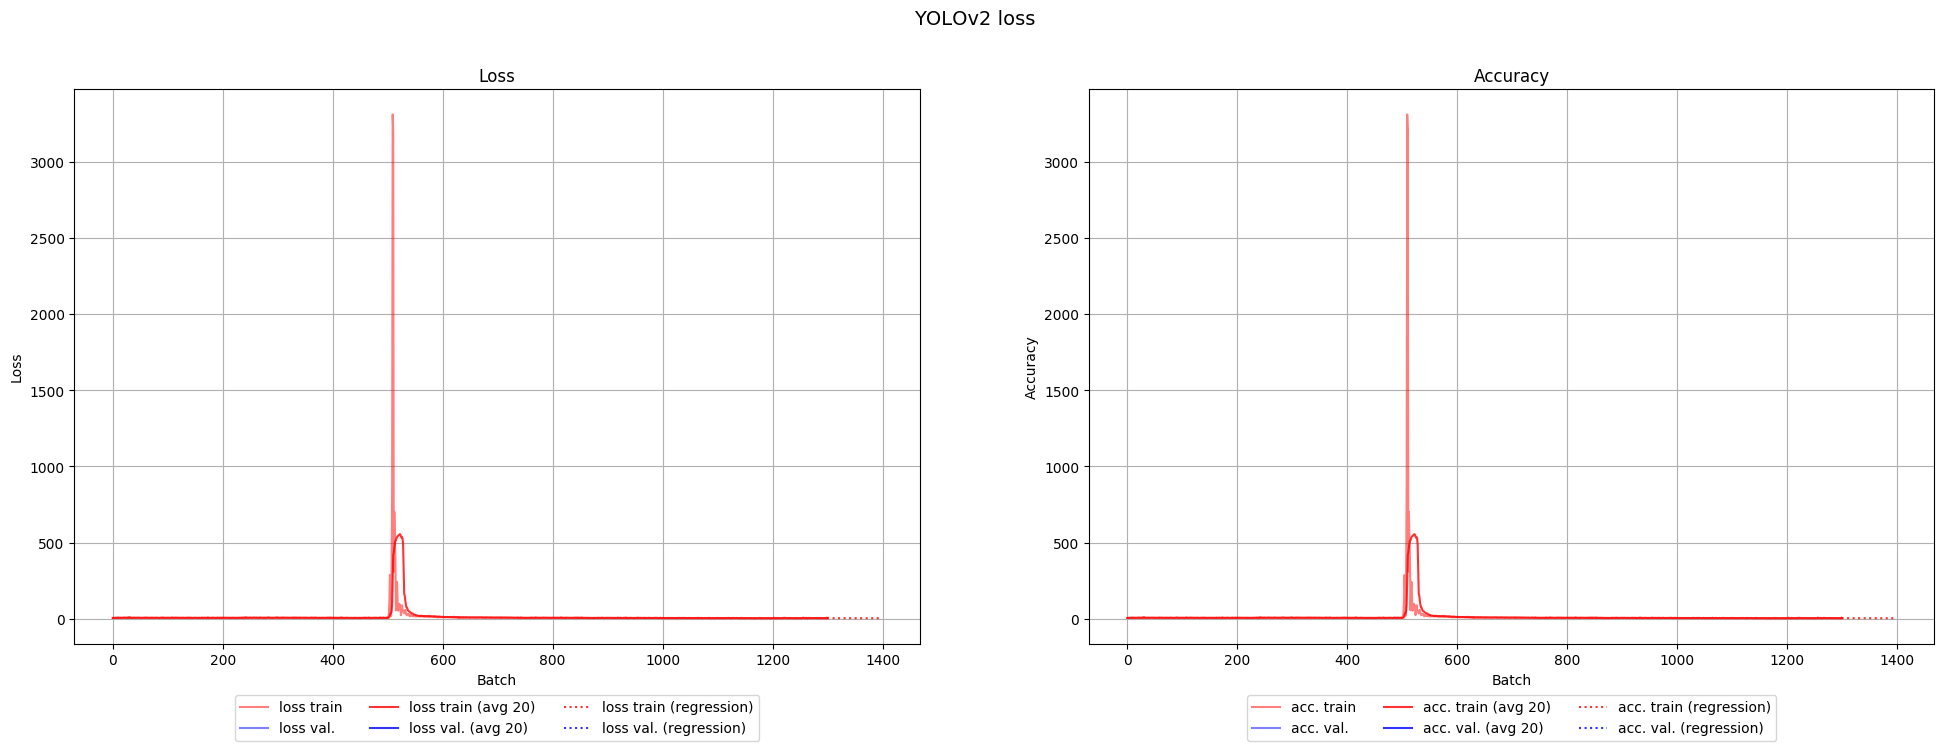
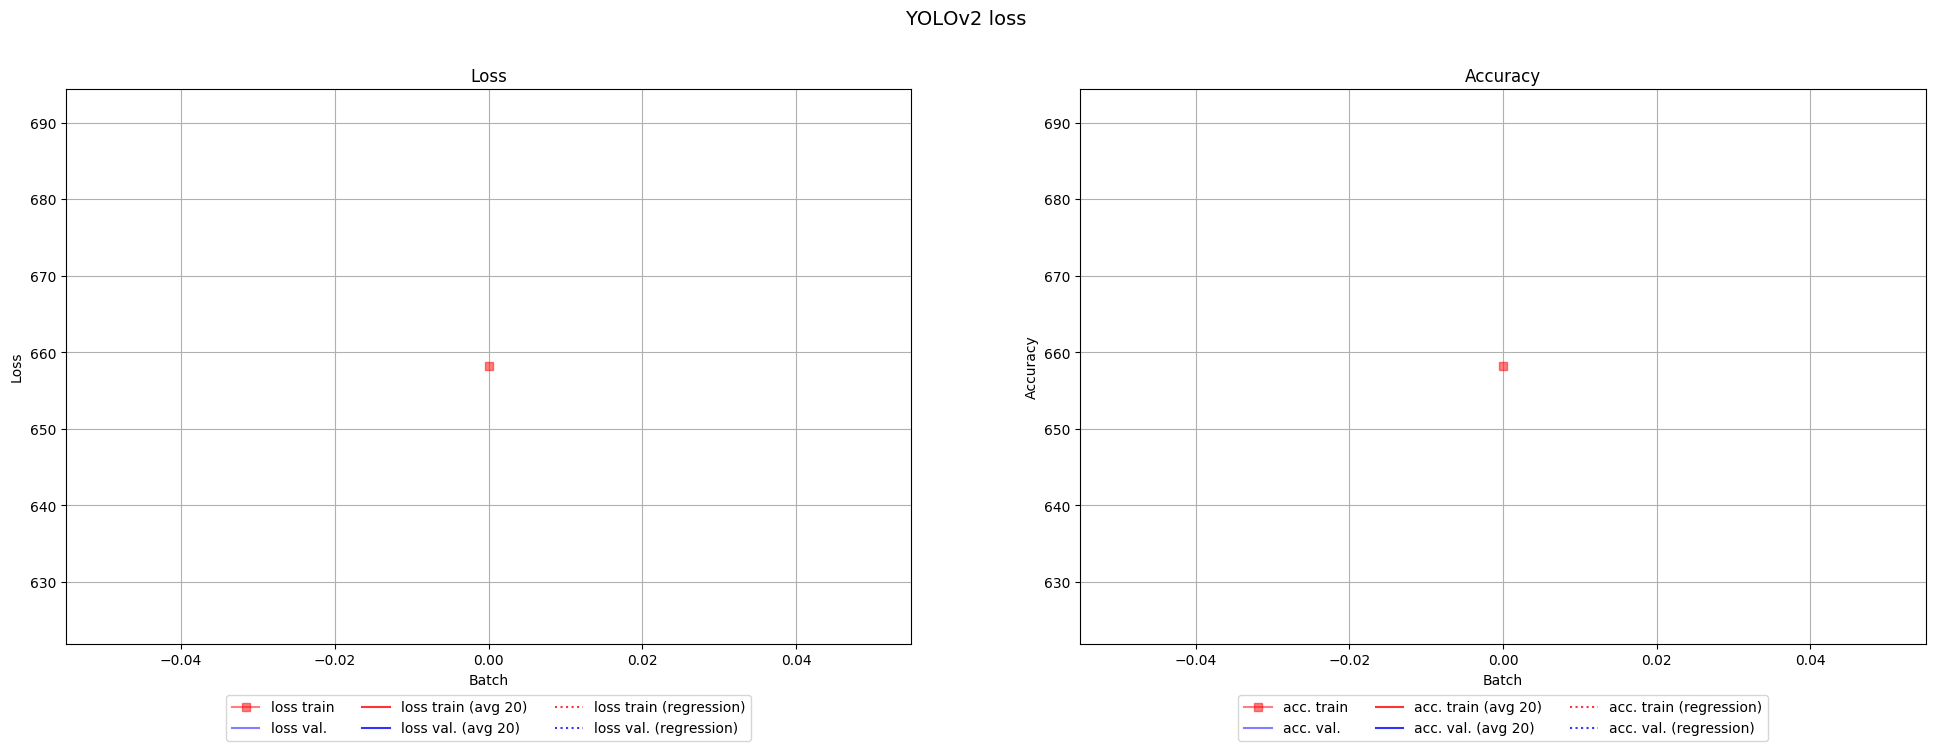
use imagenet to train

diff --git a/lib/image_generator.py b/lib/image_generator.py
@@ -204,12 +204,7 @@ class ImageGenerator():
             t.append(ground_truths)
             sample_image = random_hsv_image(sample_image, delta_hue, delta_sat_scale, delta_val_scale)
 
-            #for ground_truth in ground_truths:
-            #    cv2.rectangle(sample_image, 
-            #        (int((ground_truth["x"]-ground_truth["w"]/2)*crop_width), int((ground_truth["y"]-ground_truth["h"]/2)*crop_height)), 
-            #        (int((ground_truth["x"]+ground_truth["w"]/2)*crop_width), int((ground_truth["y"]+ground_truth["h"]/2)*crop_height)), 
-            #        (0, 0, 255), 3
-            #    )
+
            # if i==2:
 #                cv2.imshow("feed example", sample_image)
 #                cv2.waitKey(500)
@@ -283,4 +278,87 @@ class ImageGenerator():
         # forward
         #x.append(vec2)
         x = np.array(x)
+        return x,t
+
+class ImageNet_data():
+    def __init__(self, img_path, bbox_path, list_path, nb_class):
+        self.img_files = glob.glob(img_path + "/*")
+        self.bbox_files = glob.glob(bbox_path + "/*")
+        self.img_list = []
+        self.img = []
+        self.bbox = []
+        self.nb_class = nb_class
+        with open(list_path) as f:
+            content = f.readlines()
+            #print("content", content)
+            self.img_names = [img_path+"/"+x.strip()+".JPEG" for x in content]
+            self.bbox_names = [bbox_path+"/"+x.strip()+".txt" for x in content]
+        self.img_names.sort()
+        #print(self.img_names, len(self.img_names))
+        self.bbox_names.sort()
+        #print("Verification of bbox and images number", len(self.bbox_files) == len(self.img_names))
+
+        for item_file in self.bbox_names:
+            #print(item_file)
+            file =  [float(x) for x in open(item_file).read().split()]
+            self.bbox.append(file)
+            #print (file, "for", item_file)
+
+    def imageNet_yolo(self, n_samples, w_in, h_in):
+        x = []
+        t = []
+        random = np.random.randint(0, len(self.img_names), n_samples)
+        for j in range(n_samples):
+            ground_truths = []
+            i = random[j]
+            img_path = self.img_names[i]
+            #print(img_path)
+            image = cv2.imread(img_path, cv2.IMREAD_UNCHANGED)
+            sample_image = cv2.resize(image, (w_in, h_in))
+            one_hot_label = np.zeros(self.nb_class)
+            one_hot_label[int(self.bbox[i][0])] = 1
+            ground_truths.append({
+                "x": self.bbox[i][1],
+                "y": self.bbox[i][2],
+                "w": self.bbox[i][3],
+                "h": self.bbox[i][4],
+                "label": self.bbox[i][0],
+                "one_hot_label": one_hot_label
+            })
+            box = Box(self.bbox[i][1]*w_in, self.bbox[i][2]*h_in, self.bbox[i][3]*w_in,self.bbox[i][4]*h_in)
+            sample_image = sample_image[:, :, :3]
+            #print("box", box.int_left_top(), box.int_right_bottom(), "for", self.bbox[i][1], self.bbox[i][2], self.bbox[i][3],self.bbox[i][4])
+            print(ground_truths[0]["one_hot_label"])
+            t.append(ground_truths)
+            cv2.rectangle(
+                sample_image,
+                box.int_left_top(), box.int_right_bottom(),
+                (255, 0, 255),
+                3
+            )
+            cv2.imshow(img_path[10:], sample_image)
+            cv2.waitKey(0)
+            #print("bbox", ground_truths)
+            sample_image = np.asarray(sample_image, dtype=np.float32) / 255.0
+            sample_image = sample_image.transpose(2, 0, 1)
+            vec = np.asarray(sample_image).astype(np.float32)
+            x.append(vec)
+
+        img = cv2.imread("./items/pet_water.png")
+        img = cv2.resize(img, (w_in, h_in))
+        #cv2.imshow('test feed', img)
+        #cv2.waitKey(250)
+        print('shape', img.shape[:2])
+        img = img[:,:,:3]
+        img = np.asarray(img, dtype=np.float32) / 255.0
+        img = img.transpose(2, 0, 1)
+        vec2 = np.asarray(img).astype(np.float32)
+
+        # load model
+        #model.predictor.train = False
+
+        # forward
+        #x.append(vec2)
+        x = np.array(x)
+        #print(t)
         return x,t

diff --git a/yolov2_train.py b/yolov2_train.py
@@ -19,7 +19,7 @@ background_path = "./backgrounds"
 initial_weight_file = "./backup/100.model"
 backup_path = "backup"
 backup_file = "%s/backup.model" % (backup_path)
-batch_size = 8
+batch_size = 15
 max_batches = 20000
 learning_rate = 1e-5
 learning_schedules = { 
@@ -32,7 +32,7 @@ learning_schedules = {
 lr_decay_power = 4
 momentum = 0.9
 weight_decay = 0.005
-n_classes = 4
+n_classes = 3
 n_boxes = 5
 
 start = time.time()
@@ -46,14 +46,16 @@ plotter = LossAccPlotter(title="YOLOv2 loss",
                          x_label="Batch")
 
 # load image generator
-print("loading image generator...")
-generator = ImageGenerator(item_path, background_path)
+#print("loading image generator...")
+#generator = ImageGenerator(item_path, background_path)
+print("loading ImageNet generator")
+imageNet_data = ImageNet_data("./XmlToTxt/water_bottle_img", "./XmlToTxt/water_bottle_bbox", "./XmlToTxt/images_list.txt", n_classes)
 
 # load model
 print("loading initial model...")
 yolov2 = YOLOv2(n_classes=n_classes, n_boxes=n_boxes)
 model = YOLOv2Predictor(yolov2)
-serializers.load_hdf5(initial_weight_file, model)
+#serializers.load_hdf5(initial_weight_file, model)
 
 model.predictor.train = True
 model.predictor.finetune = False
@@ -73,23 +75,25 @@ for batch in range(max_batches):
     if batch % 80 == 0:
         #we take a random squared size we can found in train size
         input_width = input_height = train_sizes[np.random.randint(len(train_sizes))]
-
     # generate sample
-    x, t = generator.generate_samples(
-        n_samples=batch_size,
-        n_items=1,
-        crop_width=input_width,
-        crop_height=input_height,
-        min_item_scale=0.1,
-        max_item_scale=0.6,
-        rand_angle=45,
-        minimum_crop=1,
-        delta_hue=0.01,
-        delta_sat_scale=0.5,
-        delta_val_scale=0.5
-    )
+#    x, t = generator.generate_samples(
+#        n_samples=batch_size,
+#        n_items=1,
+#        crop_width=input_width,
+#        crop_height=input_height,
+#        min_item_scale=0.1,
+#        max_item_scale=0.6,
+#        rand_angle=45,
+#        minimum_crop=1,
+#        delta_hue=0.01,
+#        delta_sat_scale=0.5,
+#        delta_val_scale=0.5
+#    )
 #    x, t = generator.generate_simple_dataset(n_samples=batch_size, w_in=input_width,
 #        h_in=input_height)
+
+    x, t = imageNet_data.imageNet_yolo(n_samples=batch_size, w_in=input_width, h_in=input_height)
+
     for i, image in enumerate(x):
         image = np.asarray(image, dtype=np.float32) * 255.0
         image = np.transpose(image, (1, 2, 0)).copy()
@@ -97,11 +101,11 @@ for batch in range(max_batches):
         image = np.asarray(image, dtype=np.float32) / 255.0
 
         width, height, _ = image.shape
-        for truth_box in t[i]:
-            box_x, box_y, box_w, box_h = truth_box['x']*width, truth_box['y']*height, truth_box['w']*width, truth_box['h']*height
-            image = cv2.rectangle(image.copy(), (int(box_x-box_w/2), int(box_y-box_h/2)), (int(box_x+box_w/2), int(box_y+box_h/2)), (0, 0, 255), 3)
-        cv2.imshow("feed images", image)
-        cv2.waitKey(60)
+#        for truth_box in t[i]:
+#            box_x, box_y, box_w, box_h = truth_box['x']*width, truth_box['y']*height, truth_box['w']*width, truth_box['h']*height
+#            image = cv2.rectangle(image.copy(), (int(box_x-box_w/2), int(box_y-box_h/2)), (int(box_x+box_w/2), int(box_y+box_h/2)), (0, 0, 255), 3)
+#        cv2.imshow("feed images", image)
+#        cv2.waitKey(200)
 
 
     x = Variable(x)
